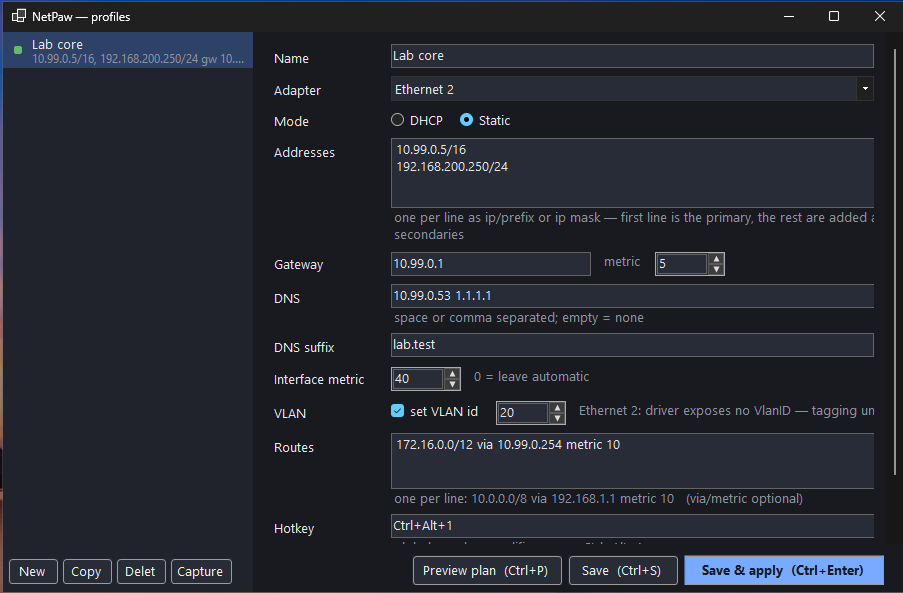
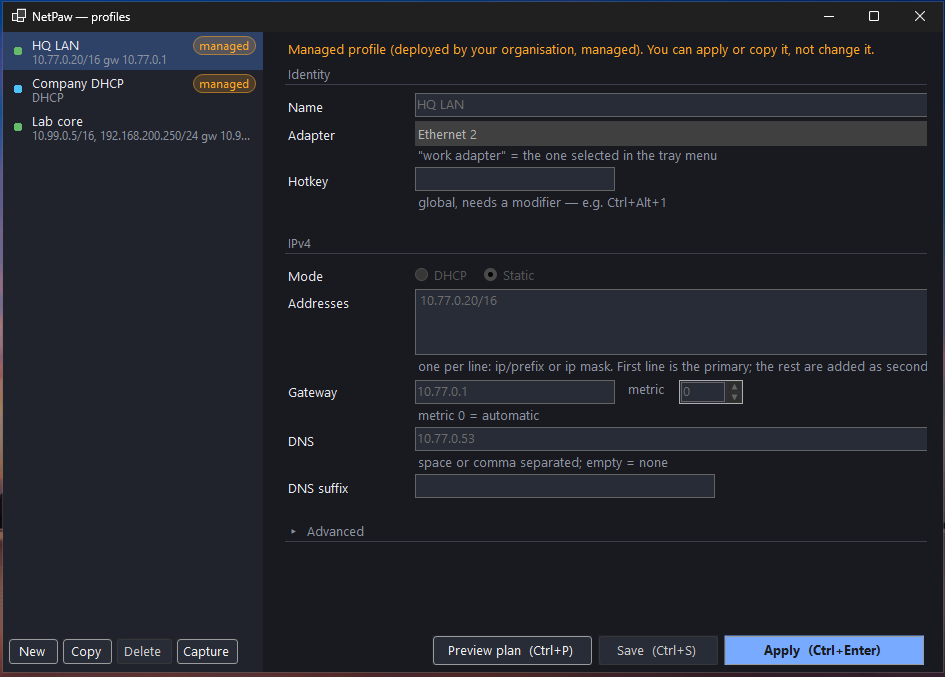
Settings layout for repositories; cache VLAN queries (editor opens fast); v0.2 screenshots from the VM

diff --git a/src/NetPaw.Tray/SettingsForm.cs b/src/NetPaw.Tray/SettingsForm.cs
@@ -10,7 +10,7 @@ sealed class SettingsForm : Form
     {
         var s = app.Service.Settings; var pol = app.Service.Policy;
         Text = "NetPaw — settings"; StartPosition = FormStartPosition.CenterScreen; FormBorderStyle = FormBorderStyle.FixedDialog;
-        MinimizeBox = false; MaximizeBox = false; ShowInTaskbar = false; ClientSize = new Size(600, 560);
+        MinimizeBox = false; MaximizeBox = false; ShowInTaskbar = false; ClientSize = new Size(700, 580);
 
         var grid = new TableLayoutPanel { Dock = DockStyle.Fill, ColumnCount = 2, Padding = new Padding(14), AutoSize = true };
         grid.ColumnStyles.Add(new ColumnStyle(SizeType.Absolute, 150)); grid.ColumnStyles.Add(new ColumnStyle(SizeType.Percent, 100));
@@ -57,11 +57,11 @@ sealed class SettingsForm : Form
         void FillRepos() { repos.Items.Clear(); foreach (var st in app.Service.RepoStates) repos.Items.Add(st); }
         FillRepos();
         var canEdit = app.Service.Allowed(Capability.UserRepos);
-        var url = new TextBox { PlaceholderText = "https://…/index.json  or  url|keyId:publicKey", Width = 250, Enabled = canEdit };
+        var url = new TextBox { PlaceholderText = "https://…/index.json  or  url|keyId:publicKey", Width = 296, Enabled = canEdit };
         var add = new Button { Text = "Add", Width = 52, Height = 26, Enabled = canEdit };
         var remove = new Button { Text = "Remove", Width = 66, Height = 26, Enabled = canEdit };
         var sync = new Button { Text = "Sync now", Width = 78, Height = 26 };
-        var repoErr = new Label { AutoSize = true, ForeColor = Theme.Error, Font = Theme.Small, MaximumSize = new Size(380, 0) };
+        var repoErr = new Label { AutoSize = true, ForeColor = Theme.Error, Font = Theme.Small, MaximumSize = new Size(510, 0) };
         add.Click += (_, _) => { try { app.Service.AddRepo(url.Text); url.Text = ""; repoErr.Text = ""; FillRepos(); } catch (InvalidOperationException ex) { repoErr.Text = ex.Message; } };
         remove.Click += (_, _) => { if (repos.SelectedItem is NetPaw.Repos.RepoState st) try { app.Service.RemoveRepo(st.Repo.Url); repoErr.Text = ""; FillRepos(); } catch (InvalidOperationException ex) { repoErr.Text = ex.Message; } };
         sync.Click += async (_, _) =>
@@ -74,7 +74,7 @@ sealed class SettingsForm : Form
         var repoBar = new FlowLayoutPanel { AutoSize = true, WrapContents = false, Margin = Padding.Empty };
         foreach (var c in new Control[] { url, add, remove, sync }) { c.Margin = new Padding(0, 0, 4, 0); repoBar.Controls.Add(c); }
         var repoBox = new FlowLayoutPanel { AutoSize = true, FlowDirection = FlowDirection.TopDown, WrapContents = false, Margin = Padding.Empty };
-        repos.Width = 400; repoBox.Controls.Add(repos); repoBox.Controls.Add(repoBar); repoBox.Controls.Add(repoErr);
+        repos.Width = 510; repoBox.Controls.Add(repos); repoBox.Controls.Add(repoBar); repoBox.Controls.Add(repoErr);
         Row("Repositories", repoBox);
         if (!canEdit) Row("", new Label { Text = "Repositories are set by your organisation.", AutoSize = true, ForeColor = Theme.Temp, Font = Theme.Small });
 

diff --git a/src/NetPaw.Core/NetPawService.cs b/src/NetPaw.Core/NetPawService.cs
@@ -17,6 +17,16 @@ public sealed class NetPawService
     readonly Func<Policy> _policyReader;
     public IAdapterProvider Adapters { get; }
     public IVlanProvider Vlan { get; }
+    readonly Dictionary<string, (VlanInfo Info, DateTime At)> _vlanCache = new(StringComparer.OrdinalIgnoreCase);
+
+    /// <summary>WMI takes ~1 s per adapter; the editor asks repeatedly, so answers are kept for 30 s.</summary>
+    public VlanInfo QueryVlan(string adapterName)
+    {
+        if (_vlanCache.TryGetValue(adapterName, out var c) && DateTime.UtcNow - c.At < TimeSpan.FromSeconds(30)) return c.Info;
+        var v = Vlan.Query(adapterName);
+        _vlanCache[adapterName] = (v, DateTime.UtcNow);
+        return v;
+    }
     public IStepRunner Runner { get; }
     public Settings Settings { get; private set; }
     public List<Profile> Profiles { get; private set; }
@@ -168,7 +178,7 @@ public sealed class NetPawService
     public ApplyPlan PlanProfile(Profile p, AdapterInfo? adapter = null)
     {
         adapter ??= ResolveAdapter(p.Adapter);
-        var vlan = p.VlanId is null ? null : Vlan.Query(adapter.Name);
+        var vlan = p.VlanId is null ? null : QueryVlan(adapter.Name);
         return ApplyPlanner.Plan(p, adapter, vlan);
     }
 
@@ -280,7 +290,7 @@ public sealed class NetPawService
             p.Gateway = adapter.Gateways.FirstOrDefault();
             p.Dns = [.. adapter.Dns];
         }
-        var v = Vlan.Query(adapter.Name);
+        var v = QueryVlan(adapter.Name);
         if (v.Capable && v.VlanId is > 0) p.VlanId = v.VlanId;
         return p;
     }

diff --git a/src/NetPaw.Tray/ProfileEditorForm.cs b/src/NetPaw.Tray/ProfileEditorForm.cs
@@ -212,7 +212,7 @@ sealed class ProfileEditorForm : Form
     {
         var name = _adapter.SelectedIndex <= 0 ? _app.Work?.Name : (string)_adapter.SelectedItem!;
         if (name is null) { _vlanInfo.Text = ""; return; }
-        var v = _app.Service.Vlan.Query(name);
+        var v = _app.Service.QueryVlan(name);
         _vlanInfo.Text = v.Capable ? $"{name}: driver supports VlanID (now {v.VlanId?.ToString() ?? "?"})" : $"{name}: driver exposes no VlanID — tagging unavailable";
         _vlanInfo.ForeColor = v.Capable ? Theme.Static : Theme.Muted;
     }
